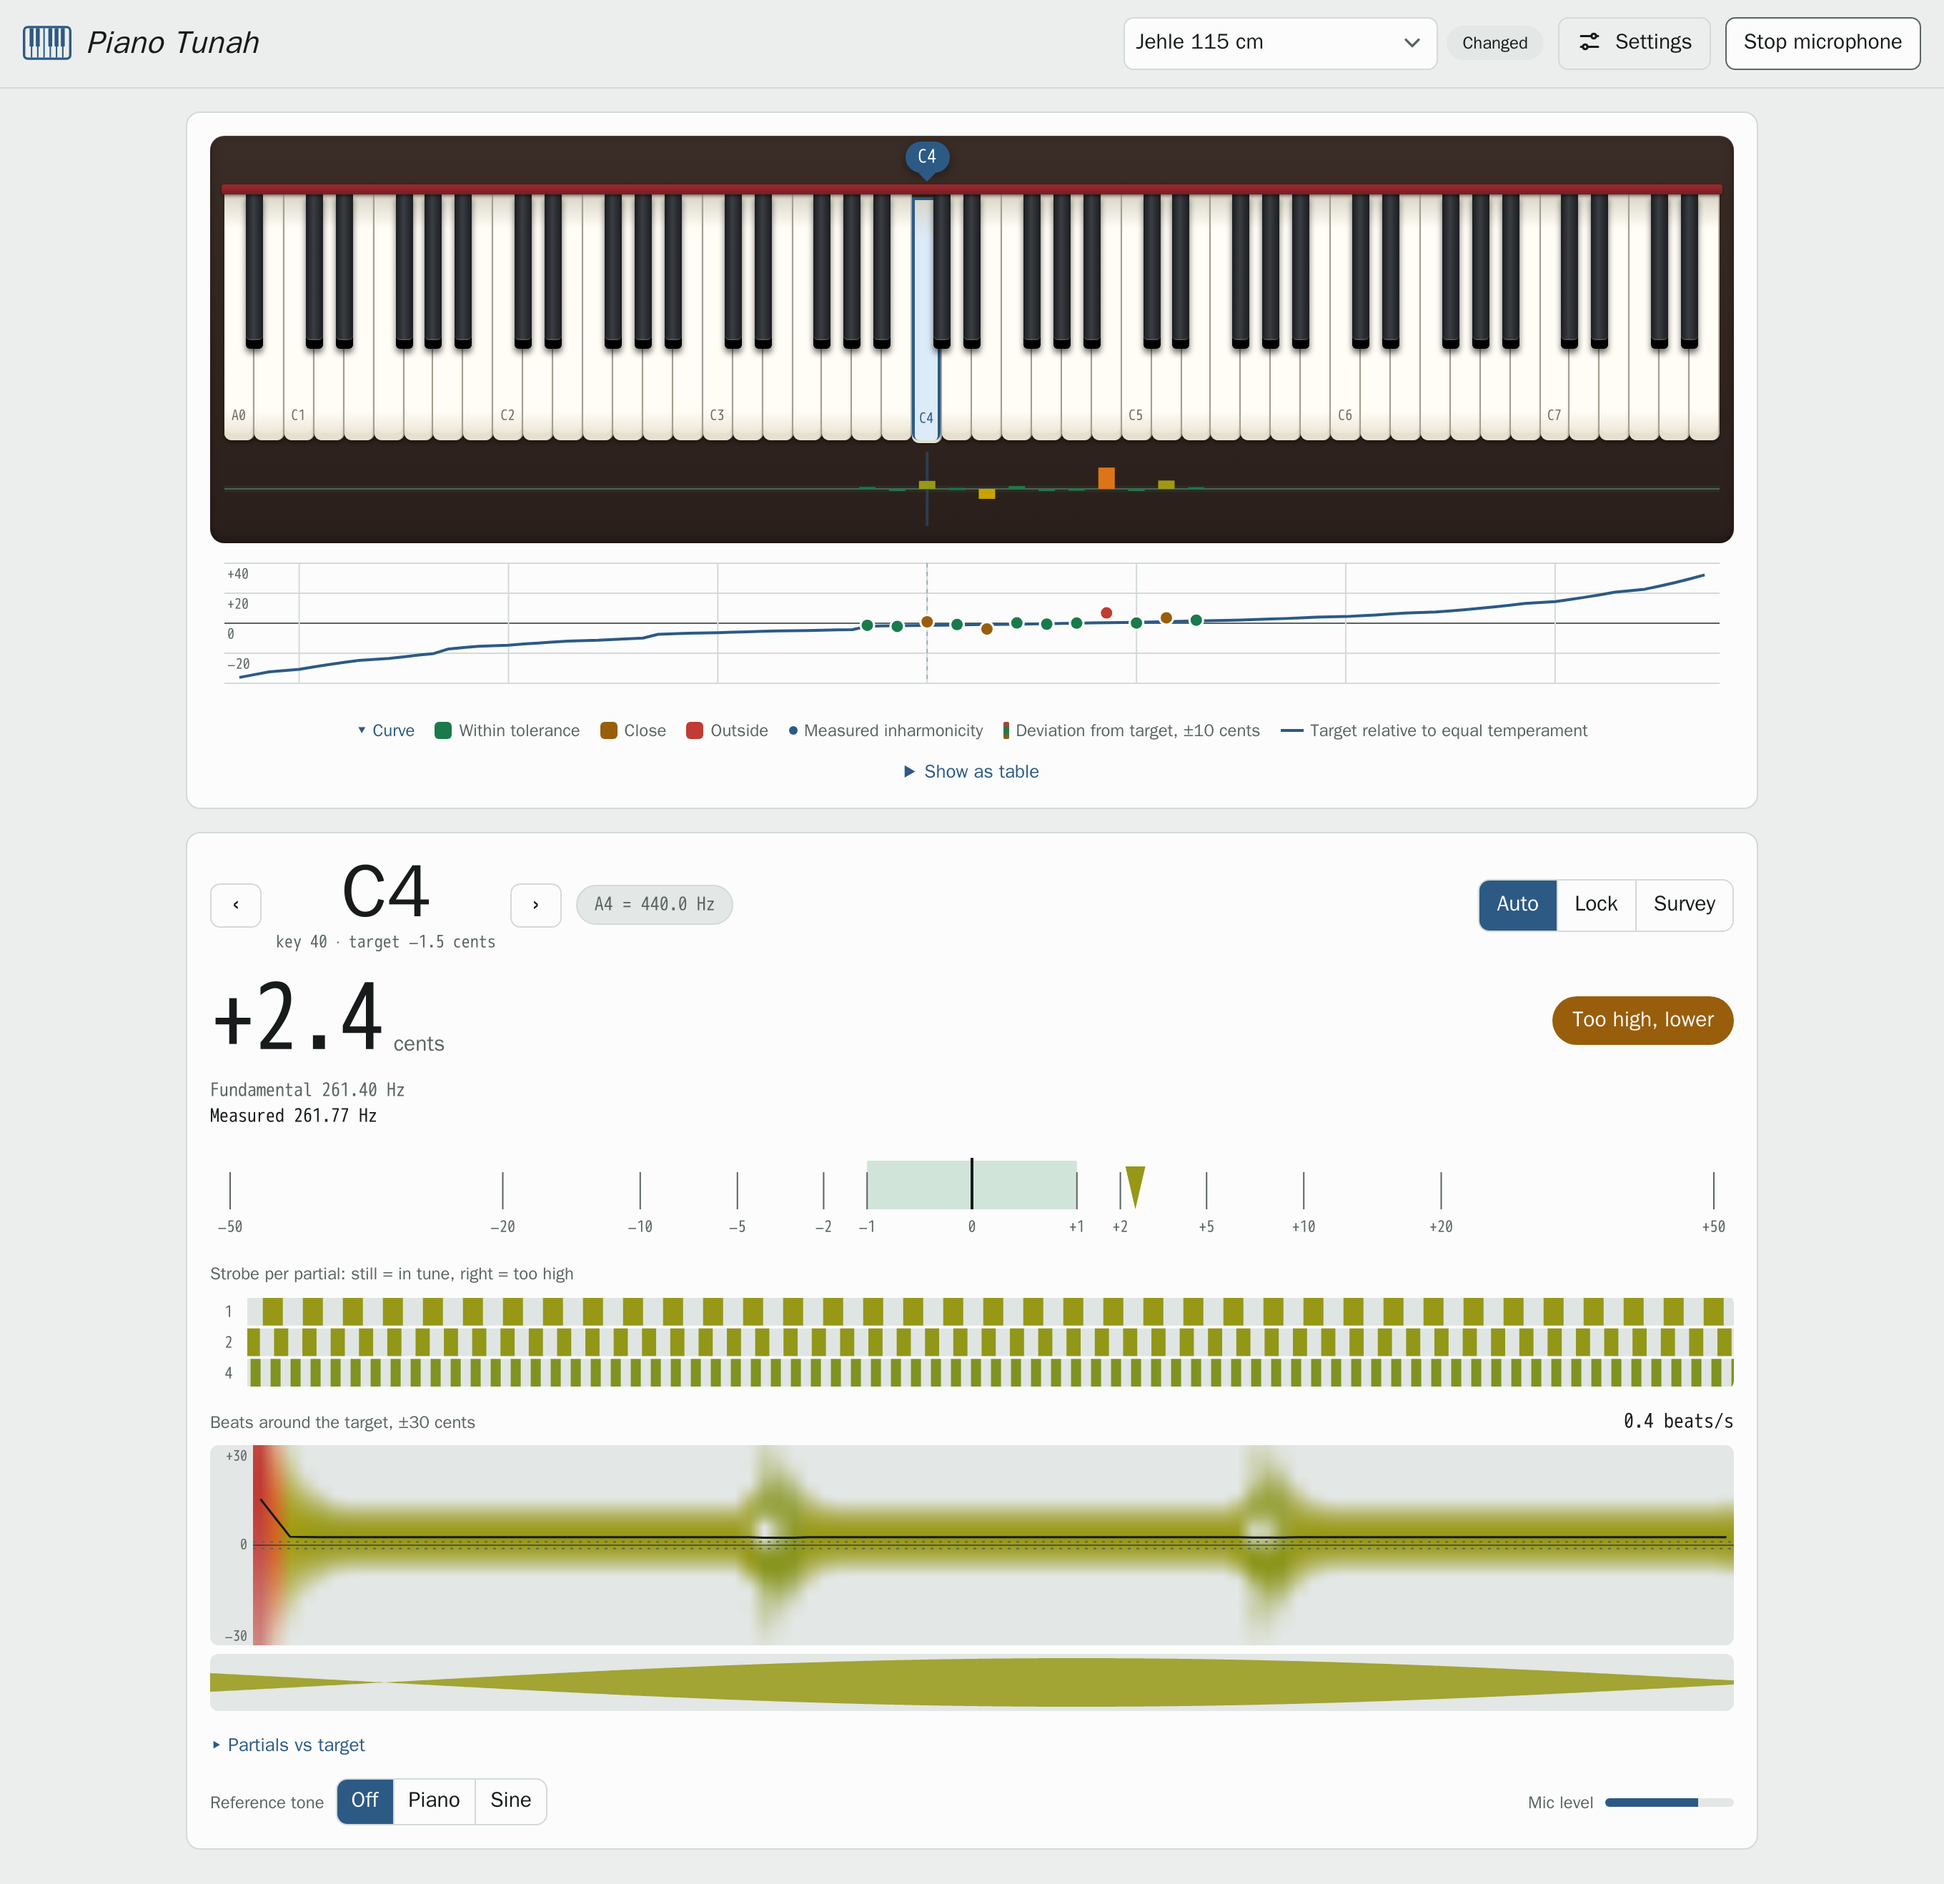
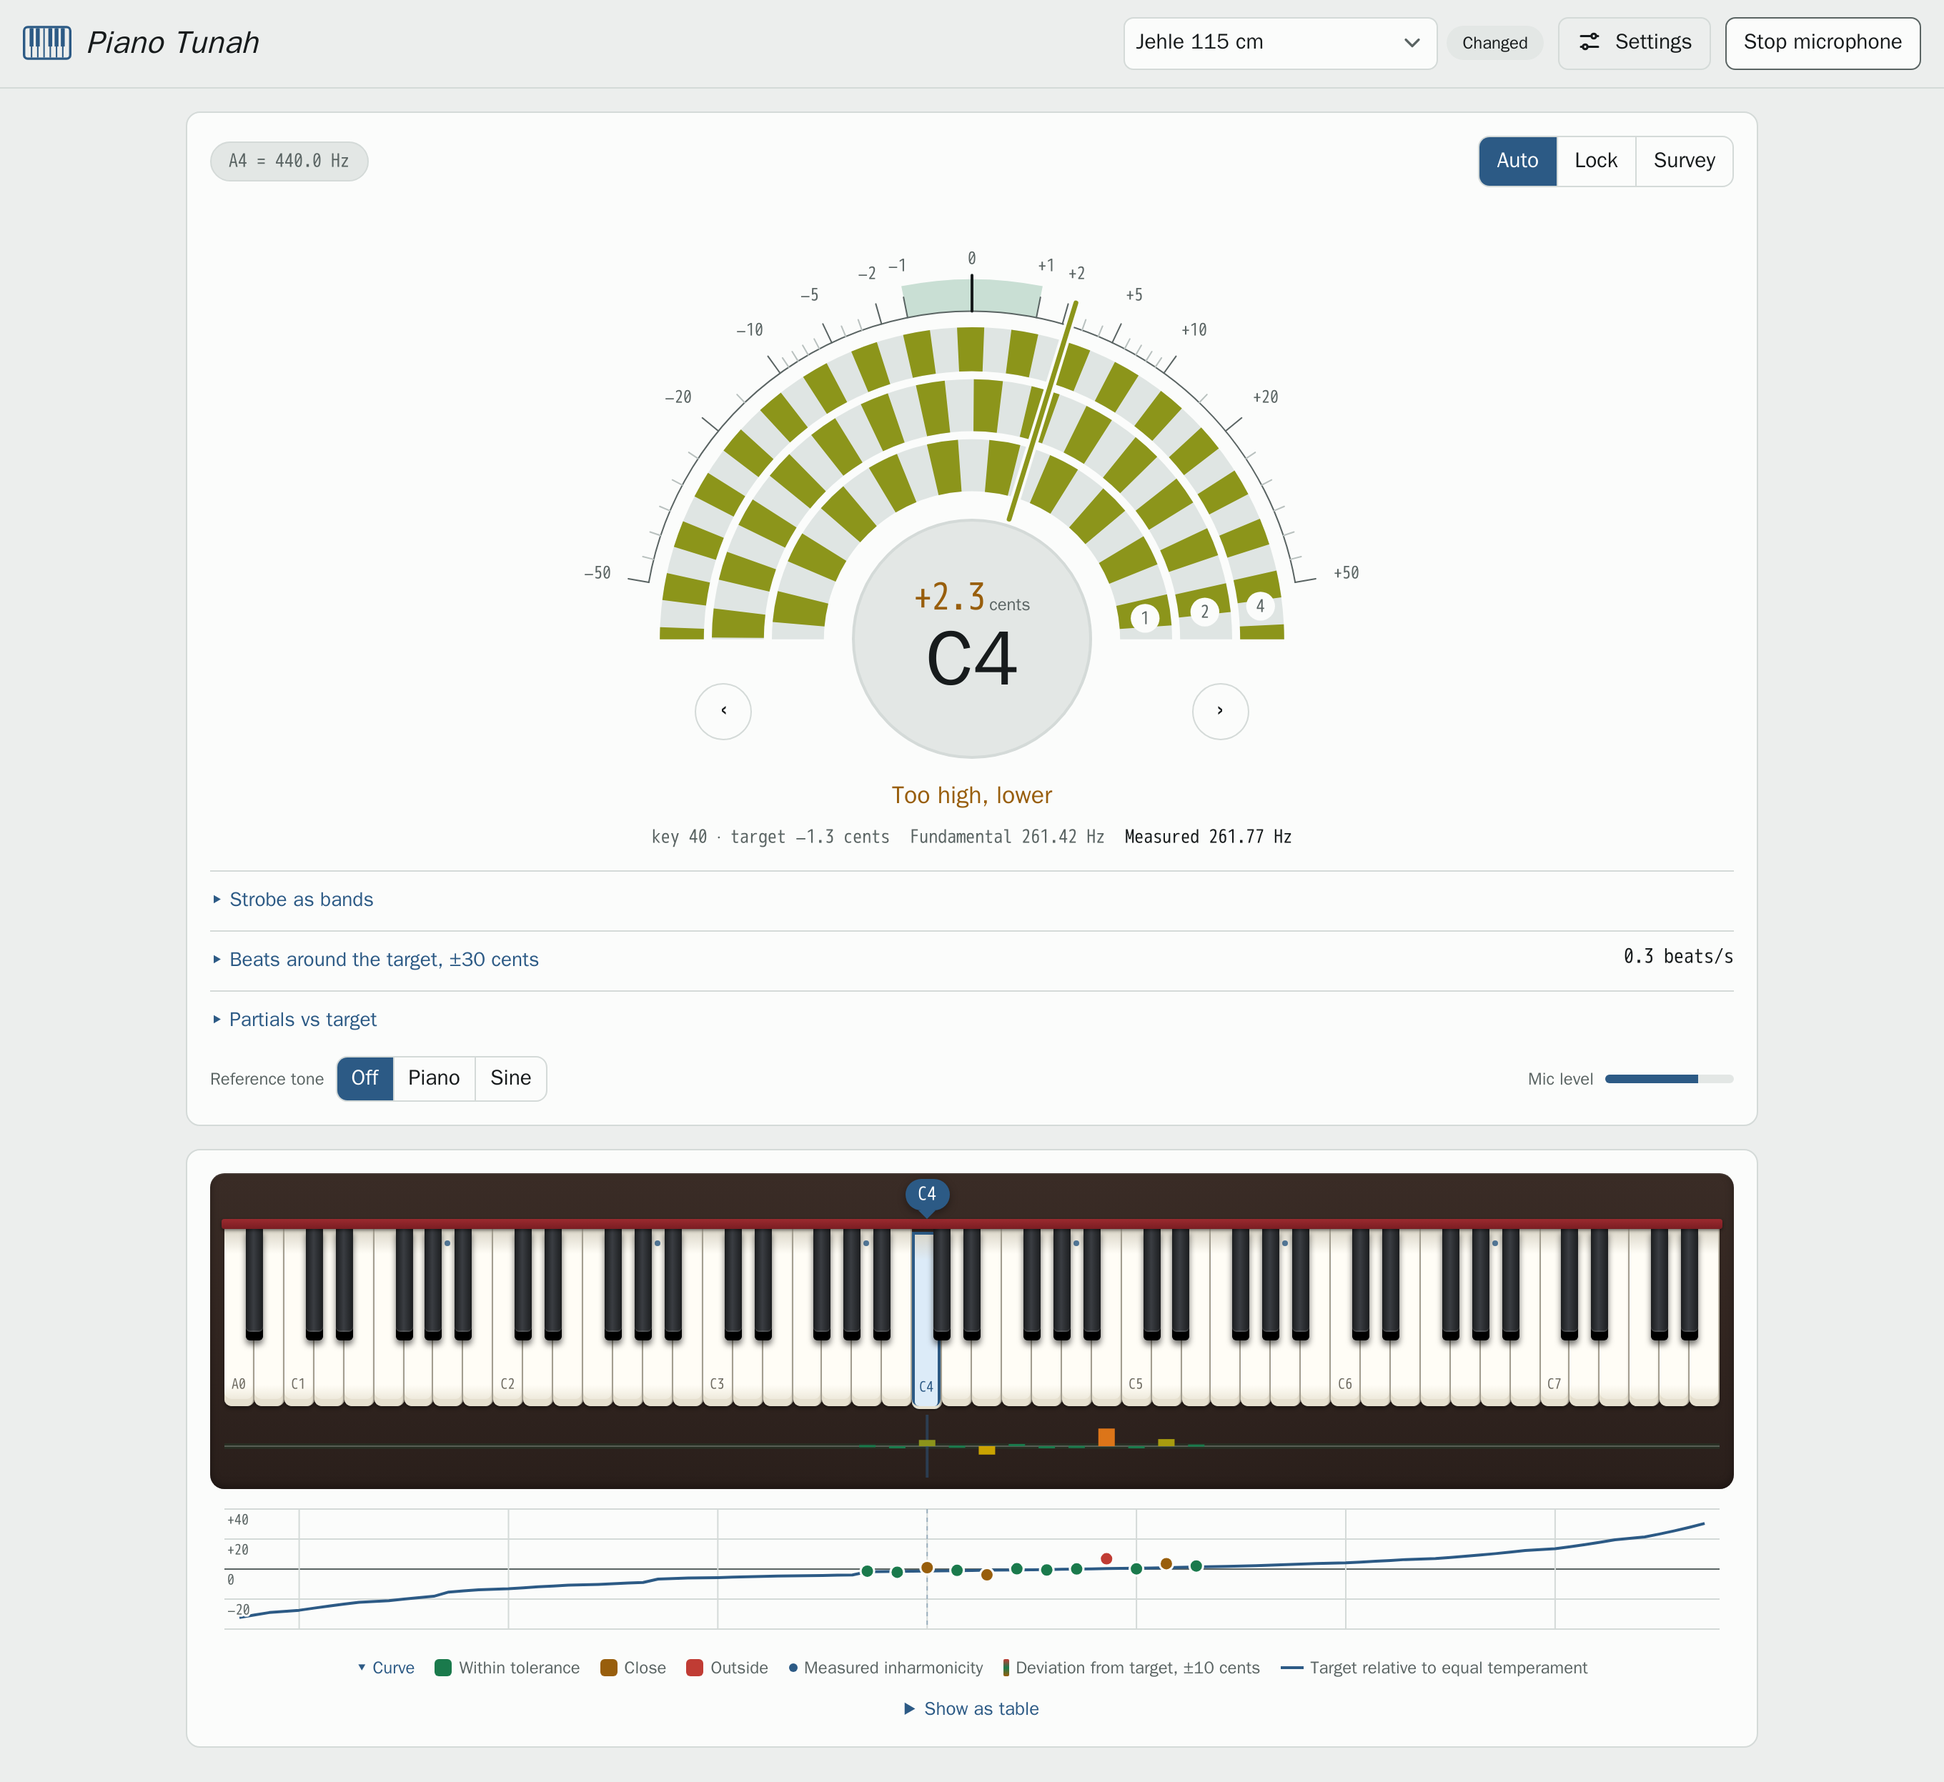
Update the screenshots for the dial

diff --git a/README.md b/README.md
@@ -4,7 +4,7 @@ Piano tuner in the browser. Listens through the computer's microphone, computes 
 
 <picture>
   <source media="(prefers-color-scheme: dark)" srcset="docs/screenshot-dark.png">
-  <img alt="Piano Tunah: keyboard, deviation, strobe and beat spectrogram" src="docs/screenshot-light.png">
+  <img alt="Piano Tunah: dial with strobe rings, keyboard, deviation and tuning curve" src="docs/screenshot-light.png">
 </picture>
 
 ## Features
@@ -14,7 +14,7 @@ Piano tuner in the browser. Listens through the computer's microphone, computes 
 - Stretch with octave type 2:1–8:4 per register, Railsback curve and extra stretch at the ends.
 - Temperaments: equal, Werckmeister III, Kirnberger III, Vallotti, Young II, ¼- and ⅙-comma meantone.
 - Reference A4 380–480 Hz, or set from the piano's current pitch. Overpull for pitch raises, with a recommended amount when the piano is flat.
-- Strobe, beat spectrogram and reference tone (piano or sine).
+- Dial with needle and strobe rings; strobe bands, beat spectrogram and reference tone (piano or sine).
 - A hint when a note beats, so the reading jumps: the unisons are out of tune and need muting.
 - Deviation per key under the keyboard, with the tuning curve and a table below it.
 - Upright or grand, size in cm, 85 or 88 keys.
